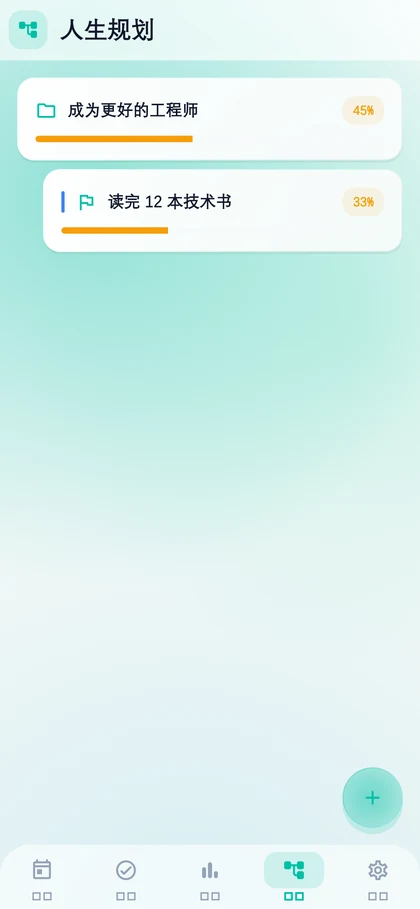
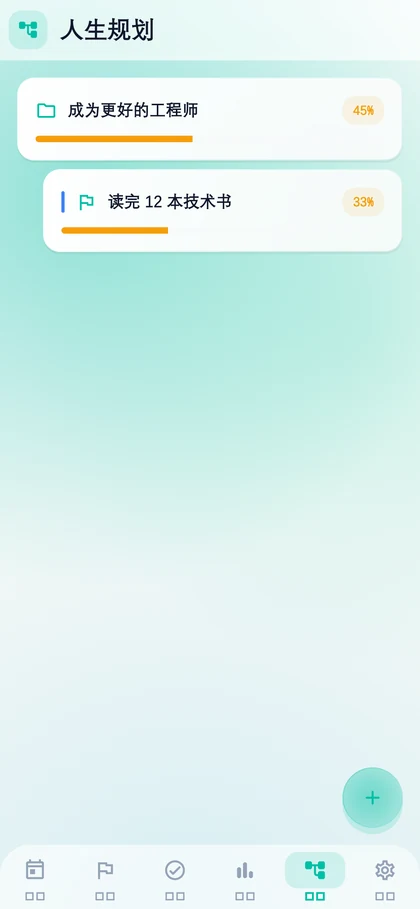
chore: v1.4.0 版本号、README 与截图
- pubspec 1.4.0+5
- README：每周目标独立成节、v1.4.0 版本迭代、结构树、六 Tab 截图
- golden 截图补每周页与挪周弹窗；make_readme_shots 出 5 张 WebP

diff --git a/tool/make_readme_shots.py b/tool/make_readme_shots.py
@@ -6,7 +6,7 @@
     python tool/make_readme_shots.py
 
 为什么要多这一步：golden 输出的是 3x 原始 PNG（约 1MB/张），
-直接把 4MB 的图提交进仓库不值得。缩放后的 WebP 4 张合计约 62KB，
+直接把 5MB 的图提交进仓库不值得。缩放后的 WebP 5 张合计约 79KB，
 在 GitHub 的 README 里渲染正常。
 
 依赖 Pillow。
@@ -20,12 +20,12 @@ from PIL import Image
 SRC_DIR = os.path.join('build', 'readme_screenshots')
 DST_DIR = os.path.join('docs', 'screenshots')
 
-# README 里 4 张图并排展示，每张显示宽度约 200px，
+# README 里 5 张图并排展示，每张显示宽度约 180px，
 # 420px 的源图相当于 2x，够清晰也不至于太重
 WIDTH = 420
 QUALITY = 88
 
-NAMES = ['daily', 'task', 'stats', 'planning']
+NAMES = ['daily', 'weekly', 'task', 'stats', 'planning']
 
 
 def main():
